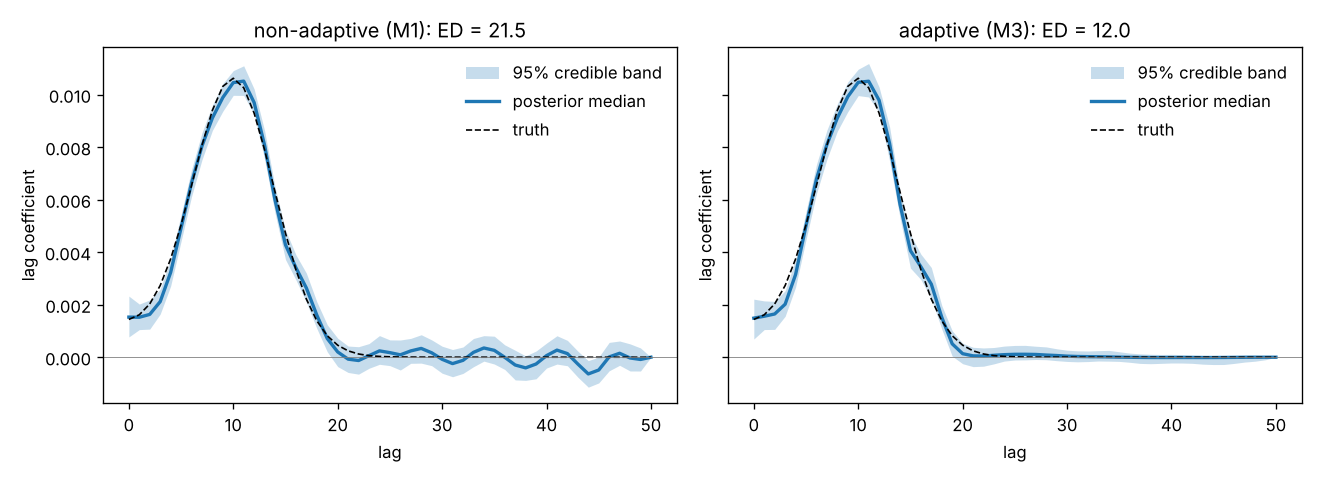
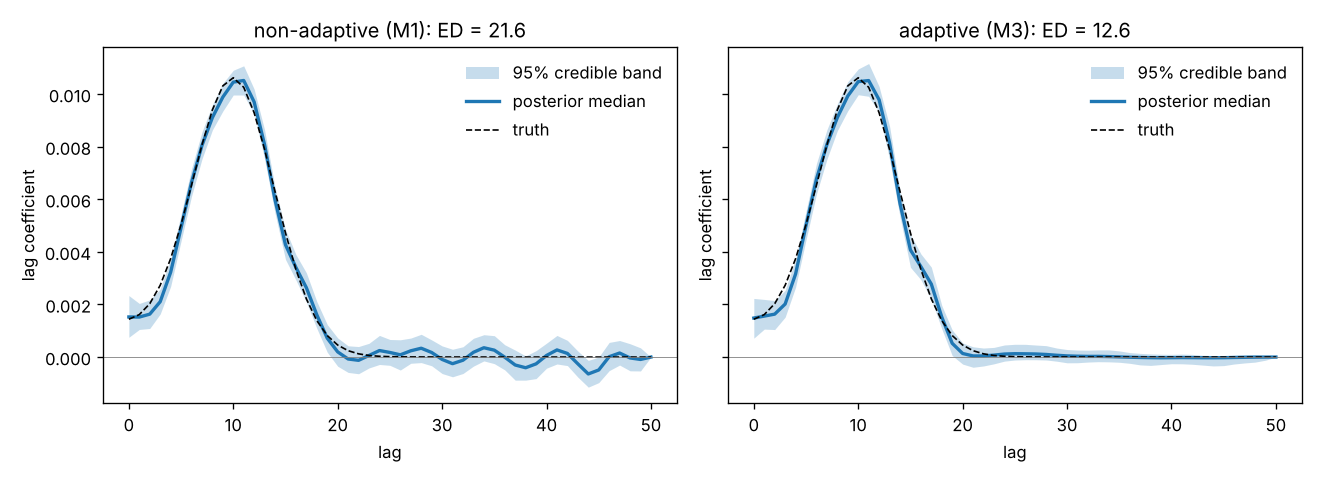
README: replication table and figures from the final code
Ten replicates per scenario, exposure standardised, noise sd 0.02. The
adaptive model has lower RMSE and fewer effective degrees of freedom in
every non-null scenario, and both models find almost no structure under the
flat response.

Claude-Session: https://claude.ai/code/session_01FCP1GA5ohkeNxZEcP2VKqi

diff --git a/README.md b/README.md
@@ -136,8 +136,32 @@ models to simulated data under five lag-curve shapes, as in Section 3.1 of the
 paper. The published curves are not available in closed form, so
 `badlm.paper_lag_curves` provides approximations with the same features.
 
-Run `python examples/replicate_paper.py 10` to produce a Markdown table of RMSE,
-squared bias and effective degrees of freedom for both models.
+With 10 replicates per scenario, the exposure standardised and noise sd 0.02
+(RMSE and squared bias scaled by 1e3, ED the posterior mean effective degrees
+of freedom):
+
+| Lag curve | Summary | M1 | M3 |
+|---|---|---|---|
+| delayed_peak | RMSE | 0.55 | 0.36 |
+| delayed_peak | Bias2 | 0.00 | 0.00 |
+| delayed_peak | ED | 24.43 | 11.68 |
+| decay_curve | RMSE | 0.44 | 0.34 |
+| decay_curve | Bias2 | 0.00 | 0.00 |
+| decay_curve | ED | 18.16 | 12.53 |
+| flat_response | RMSE | 0.13 | 0.13 |
+| flat_response | Bias2 | 0.00 | 0.00 |
+| flat_response | ED | 3.61 | 3.57 |
+| displacement | RMSE | 0.56 | 0.42 |
+| displacement | Bias2 | 0.00 | 0.00 |
+| displacement | ED | 23.95 | 14.55 |
+| sharp_peak | RMSE | 0.81 | 0.35 |
+| sharp_peak | Bias2 | 0.00 | 0.00 |
+| sharp_peak | ED | 28.01 | 7.53 |
+
+The adaptive model has lower RMSE and far fewer effective degrees of freedom
+in every non-null scenario, and both models correctly find almost no structure
+under the flat response, matching the qualitative conclusions of the paper.
+Rerun with `python examples/replicate_paper.py N` for `N` replicates.
 
 ## Citation
 
